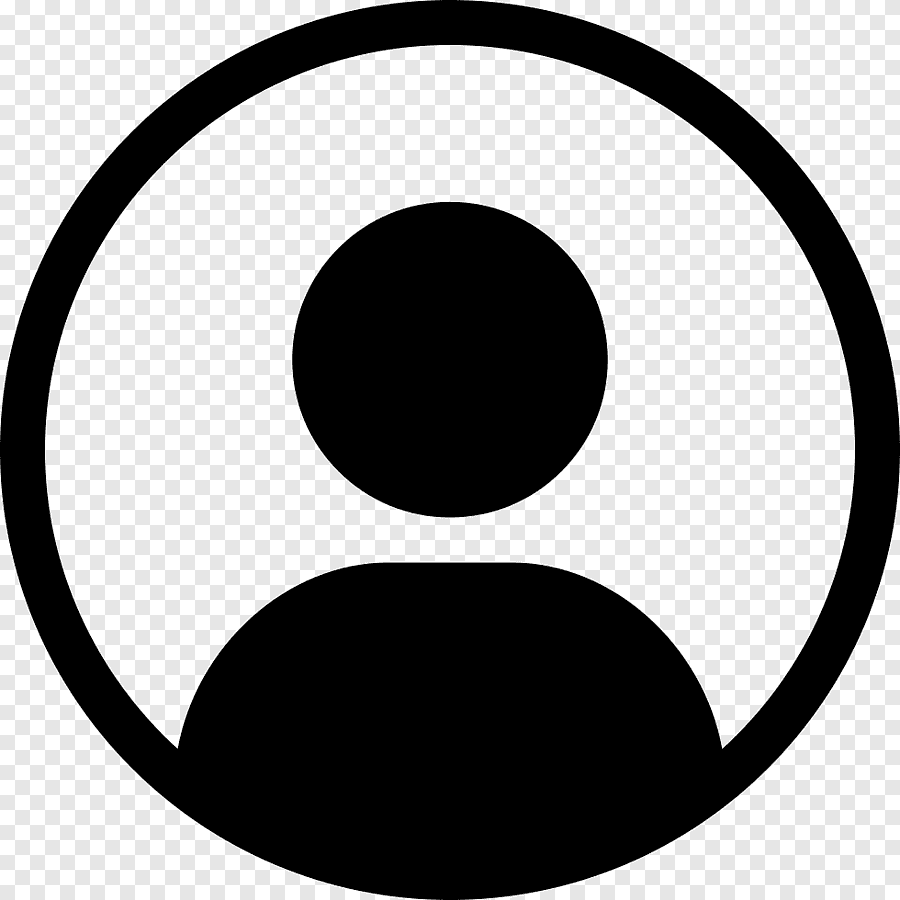
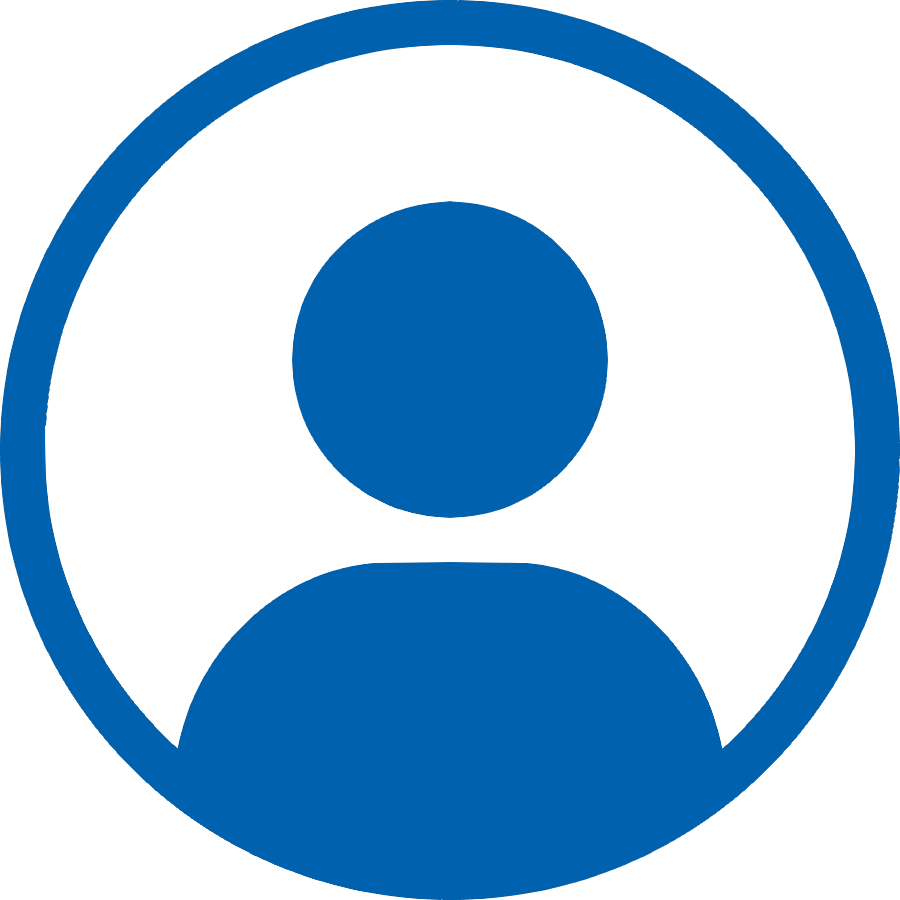
commit final 2

diff --git a/css/style.css b/css/style.css
@@ -36,6 +36,8 @@ body {
     border-radius: 5px;
 }
 
+
+
 .img {
     display: block;
     margin-left: auto;
@@ -48,6 +50,12 @@ h1 {
     font-size: 50px;
     color: var(--header-footer-color);
     text-align: center;
+}
+
+h1 img{
+  margin:0px 5px 0px;
+  width: 35px;
+  height: 35px;
 }
 
 .top {
@@ -173,3 +181,4 @@ table {
     color: var(--header-footer-color);
     transition: 0.2s;
   }
+  

diff --git a/gestao_usuarios.php b/gestao_usuarios.php
@@ -28,8 +28,7 @@ if(!$usuarios->temPermissoes('SUPER')){
                 <a href="sair.php">SAIR</a>
 </div>
 
-<h1>Usuários</h1>
-
+<h1><a href="#""><img src="img/usuario.png"></a>Usuários</h1>
 
 
 

diff --git a/index.php b/index.php
@@ -27,7 +27,7 @@ $usuarios->setUsuario($_SESSION['logado']);
 </div>
 
 
-<h1>Contatos</h1>
+<h1><a href="#""><img src="img/contato.png"></a>Contatos</h1>
     
 
 <table>
